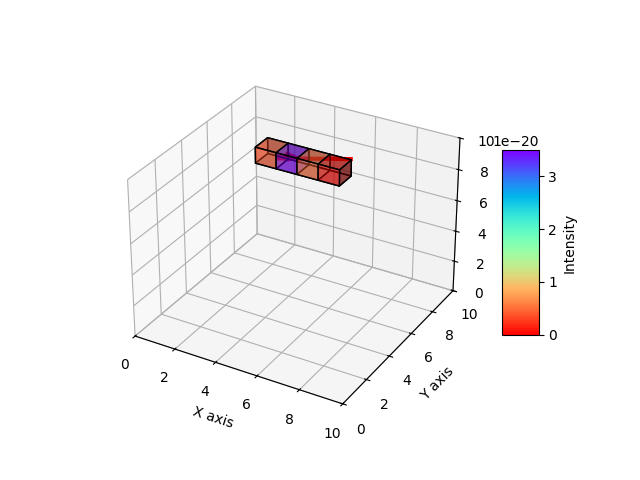
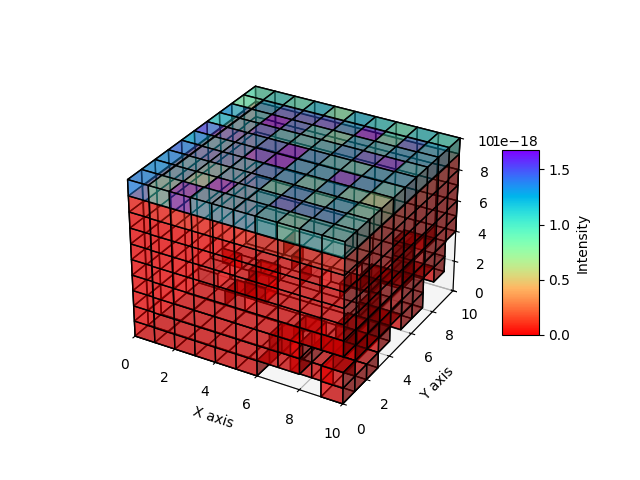
improve/bug fix in simulation.py + add new tests

diff --git a/src/simulation.py b/src/simulation.py
@@ -4,7 +4,7 @@ import matplotlib.cm as cm
 import matplotlib.colors as colors
 
 class Atmosphere:
-    def __init__(self, shape):
+    def __init__(self, shape = (10,10,10)):
         self.shape = shape
         self.source_function = np.zeros(shape)
         self.albedo = 1.0
@@ -66,7 +66,7 @@ class Atmosphere:
 
         return tDeltaX, tDeltaY, tDeltaZ
 
-    def compute_length_in_cells(self, initial_position, depth, direction):
+    def deposit_energy(self, photon, return_lengths=False):
         """
         Compute the length of the ray in each cell it traverses.
         position: (x, y, z) coordinates of the starting point
@@ -74,8 +74,13 @@ class Atmosphere:
         Returns: 3D array of lengths in each cell
         """
         length_in_cell = np.zeros(self.shape)
-        if not self.in_box(initial_position):
-            return length_in_cell
+
+        initial_position = photon.position
+        depth = photon.optical_depth
+        direction = photon.direction_in_cartesian(photon.theta, photon.phi)
+        if not self.in_box(initial_position + direction * depth):
+            depth = self.distance_to_boundary(initial_position, direction)
+        
         # Determine step directions
         stepX = 1 if direction[0] > 0 else -1
         stepY = 1 if direction[1] > 0 else -1
@@ -83,24 +88,18 @@ class Atmosphere:
 
         # Initial distances to the next planes
         tMaxX, tMaxY, tMaxZ = self.distance_to_planes(initial_position, direction)
-        t_curr = np.min([tMaxX, tMaxY, tMaxZ])
-        length_in_cell[np.floor(initial_position).astype(int)[0], np.floor(initial_position).astype(int)[1], np.floor(initial_position).astype(int)[2]] += t_curr
-
+        t_curr = 0
         # Parametric distances to cross a cell
         tDeltaX, tDeltaY, tDeltaZ = self.parametric_distance_in_cell(direction)
         # Current cell indices
         Xcell, Ycell, Zcell = np.floor(initial_position).astype(int)
 
         while self.in_box([Xcell, Ycell, Zcell]) and t_curr < depth: 
-            if tMaxX < tMaxY and tMaxX < tMaxZ:
-                t_next = tMaxX
-            elif tMaxY < tMaxX and tMaxY < tMaxZ:
-                t_next = tMaxY
-            else:
-                t_next = tMaxZ
-
-            delta = min(t_next, depth) - t_curr
+            t_next = min(tMaxX, tMaxY, tMaxZ) # distance to next boundary crossing (from initial position)
+            delta = min(t_next, depth) - t_curr # length traveled in this cell 
             length_in_cell[Xcell, Ycell, Zcell] += delta
+            self.source_function[Xcell, Ycell, Zcell] += delta * photon.energy * self.albedo / (4 * np.pi)
+            photon.energy_loss(delta)
 
             if t_next == tMaxX:
                 tMaxX += tDeltaX
@@ -113,25 +112,13 @@ class Atmosphere:
                 Zcell += stepZ
 
             t_curr = min(t_next, depth)
-        
-        return length_in_cell
 
-    def deposit_energy(self, photon):
-
-        initial_position = photon.position
-        depth = photon.optical_depth
-        direction = photon.direction_in_cartesian(photon.theta, photon.phi)
-        energy = photon.energy
-        if not self.in_box(initial_position + direction * depth):
-            depth = self.distance_to_boundary(initial_position, direction)
-
-        lengths = self.compute_length_in_cells(initial_position, depth, direction)
-
-        self.source_function += lengths * energy * self.albedo / (4 * np.pi)
+        if return_lengths:
+            return length_in_cell
 
 class PhotonPacket:
 
-    def __init__(self, position, energy):
+    def __init__(self, position = np.array([0,0,0]), energy = 1.0):
         self.position = position
         self.energy = energy
         self.trajectory = np.array([position])
@@ -170,9 +157,11 @@ class PhotonPacket:
         self.position = new_position
         self.trajectory = np.append(self.trajectory, [new_position], axis=0)
 
-    def energy_loss(self):
-        self.energy *= np.exp(-self.optical_depth)
-        
+    def energy_loss(self, tau=None):
+        if tau is None:
+            tau = self.optical_depth
+        self.energy *= np.exp(-tau)
+
     def get_random_walk(self):
 
         return self.optical_depth, self.theta, self.phi
@@ -236,8 +225,12 @@ class Simulation:
 
                 photon.random_walk()
                 self.atmosphere.deposit_energy(photon)
-                photon.energy_loss()
-                photon.move()
+                if self.atmosphere.in_box(photon.position + photon.direction_in_cartesian(photon.theta, photon.phi) * photon.optical_depth):
+                    photon.move()
+                else:
+                    tau = self.atmosphere.distance_to_boundary(photon.position, photon.direction_in_cartesian(photon.theta, photon.phi))
+                    photon.optical_depth = tau
+                    photon.move()
 
     def plot(self, rays=False):
 

diff --git a/tests/test_source_function.py b/tests/test_source_function.py
@@ -10,29 +10,104 @@ import simulation
 def test_length_ray():
     """Test the computation of lengths in atmosphere cells for a vertical ray."""
     # Create a simple atmosphere
-    atmosphere = simulation.Atmosphere((10, 10, 10))
+    atmosphere = simulation.Atmosphere()
     # Create a photon packet
-    photon = simulation.PhotonPacket(position=np.array([0,0,0]), energy=1.0)
+    photon = simulation.PhotonPacket()
     
     # Vertical ray
     photon.optical_depth = 100
     photon.theta = 0
     photon.phi = 0
     
-    lengths = atmosphere.compute_length_in_cells(photon.position, photon.optical_depth, photon.direction_in_cartesian(photon.theta, photon.phi))
+    lengths = atmosphere.deposit_energy(photon, return_lengths=True)
     expected_length = 10
-    assert np.sum(lengths) == expected_length, "Sum of lengths in cells should equal the photon's optical depth"
+    assert np.sum(lengths) == expected_length, f"Sum of lengths in cells should equal the photon's optical depth, got {np.sum(lengths)} instead of {expected_length}"
 
     # Diagonal ray
     photon.position = np.array([0, 0, 0])
-    photon.theta = np.pi / 4  # Horizontal ray
+    photon.theta = np.pi / 4 
     photon.phi = np.pi / 4
-    lengths = atmosphere.compute_length_in_cells(photon.position, photon.optical_depth, photon.direction_in_cartesian(photon.theta, photon.phi))
+    lengths = atmosphere.deposit_energy(photon, return_lengths=True)
     expected_length = np.sqrt(2) * 10
-    assert np.sum(lengths)== expected_length, "Sum of lengths in cells should equal the photon's optical depth for diagonal ray"
+    assert np.abs(np.sum(lengths) - expected_length) < 1e-6, f"Sum of lengths in cells should equal the photon's optical depth for diagonal ray, got {np.sum(lengths)} instead of {expected_length}"
+
+def test_plot_atmosphere():
+    """Test the plotting of the voxels with lengths traversed by a photon."""
+    atmosphere = simulation.Atmosphere()
+    photon = simulation.PhotonPacket()
+    photon.theta = 0.9553166181245092 # ~54.7356 degrees
+    photon.phi = np.pi / 4
+    dir = photon.direction_in_cartesian(photon.theta, photon.phi)
+    photon.optical_depth = atmosphere.distance_to_boundary(photon.position, dir)
+
+    lengths = atmosphere.deposit_energy(photon, return_lengths=True)
+    photon.move()
+    from matplotlib import cm, colors
+    norm = colors.Normalize(vmin=np.min(lengths), vmax=np.max(lengths))
+    facecolors = cm.rainbow_r(norm(lengths))
+
+    plt.figure()
+    ax = plt.axes(projection='3d')
+    ax.voxels(lengths, facecolors=facecolors, edgecolor='k', alpha=0.5)
+
+
+    ax.plot(photon.trajectory[:,0],
+        photon.trajectory[:,1],
+        photon.trajectory[:,2],
+        color='r', linewidth=3, label='Ray Path'
+    )
+    ax.set_xlabel('X axis')
+    ax.set_ylabel('Y axis')
+    ax.set_zlabel('Z axis')
+    ax.set_xlim(0, atmosphere.shape[0])
+    ax.set_ylim(0, atmosphere.shape[1])
+    ax.set_zlim(0, atmosphere.shape[2])
+    plt.colorbar(cm.ScalarMappable(norm=norm, cmap='rainbow_r'), ax=ax, shrink=0.5, aspect=5, label='Length in Cell')
+    plt.savefig('../figures/test_plot_atmosphere.png')
+    plt.close()
+
+def test_plot_sourceFunction():
+    """Test the plotting of the source function."""
+    atmosphere = simulation.Atmosphere()
+    photon = simulation.PhotonPacket(position=np.array([0,0,5.5]))
+    photon.theta = np.pi / 2
+    
+    dir = photon.direction_in_cartesian(photon.theta, photon.phi)
+    photon.optical_depth = np.min([atmosphere.distance_to_boundary(photon.position, dir), photon.maximum_optical_depth()])
+
+    atmosphere.deposit_energy(photon)
+    photon.move()
+    source_function = atmosphere.source_function
+    from matplotlib import cm, colors
+    norm = colors.Normalize(vmin=np.min(source_function), vmax=np.max(source_function))
+    facecolors = cm.rainbow_r(norm(source_function))
+
+    plt.figure()
+    ax = plt.axes(projection='3d')
+    ax.voxels(source_function, facecolors=facecolors, edgecolor='k', alpha=0.5)
+
+
+    ax.plot(photon.trajectory[:,0],
+        photon.trajectory[:,1],
+        photon.trajectory[:,2],
+        color='r', linewidth=3, label='Ray Path'
+    )
+    ax.set_xlabel('X axis')
+    ax.set_ylabel('Y axis')
+    ax.set_zlabel('Z axis')
+    ax.set_xlim(0, atmosphere.shape[0])
+    ax.set_ylim(0, atmosphere.shape[1])
+    ax.set_zlim(0, atmosphere.shape[2])
+    plt.colorbar(cm.ScalarMappable(norm=norm, cmap='rainbow_r'), ax=ax, shrink=0.5, aspect=5, label='intensity')
+    plt.savefig('../figures/test_plot_sourceFunction.png')
+    plt.close()
 
 
 if __name__ == "__main__":
     test_length_ray()
     print("test_length_ray passed.")
+    test_plot_atmosphere()
+    print("test_plot_atmosphere passed.")
+    test_plot_sourceFunction()
+    print("test_plot_sourceFunction passed.")
 

diff --git a/tests/test_randomWalk.py b/tests/test_randomWalk.py
@@ -1,0 +1,35 @@
+import numpy as np
+import matplotlib.pyplot as plt
+import sys
+import os
+sys.path.append(os.path.abspath(os.path.join(os.path.dirname(__file__), '../src/')))
+
+import simulation
+
+def test_RW():
+    """Test the random walk simulation of photon packets in the atmosphere."""
+    atmosphere = simulation.Atmosphere()
+    photon = simulation.PhotonPacket(position=np.array([5,5,5]))
+    while atmosphere.in_box(photon.position):
+        photon.random_walk()
+        photon.move()
+    
+    plt.figure()
+    ax = plt.axes(projection='3d')
+    ax.plot(photon.trajectory[:,0],
+        photon.trajectory[:,1],
+        photon.trajectory[:,2],
+        color='r', linewidth=2, label='Photon Path'
+    )
+    ax.set_xlabel('X axis')
+    ax.set_ylabel('Y axis')
+    ax.set_zlabel('Z axis')
+    ax.set_xlim(0, atmosphere.shape[0])
+    ax.set_ylim(0, atmosphere.shape[1])
+    ax.set_zlim(0, atmosphere.shape[2])
+    plt.savefig('../figures/test_randomWalk.png')
+    plt.close()
+
+if __name__ == "__main__":
+    test_RW()
+    print("Random Walk test completed successfully.")
